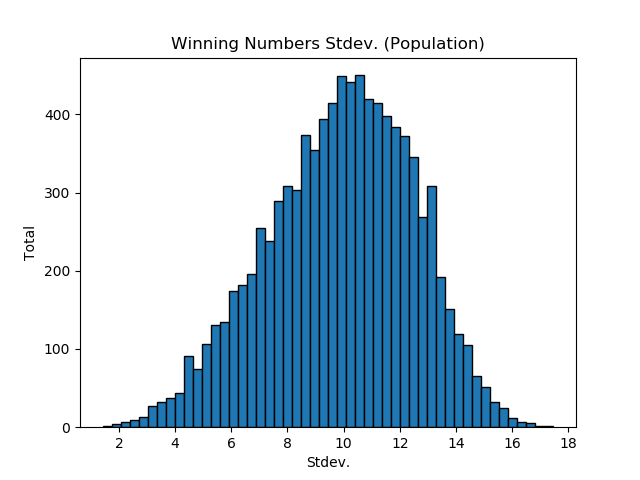
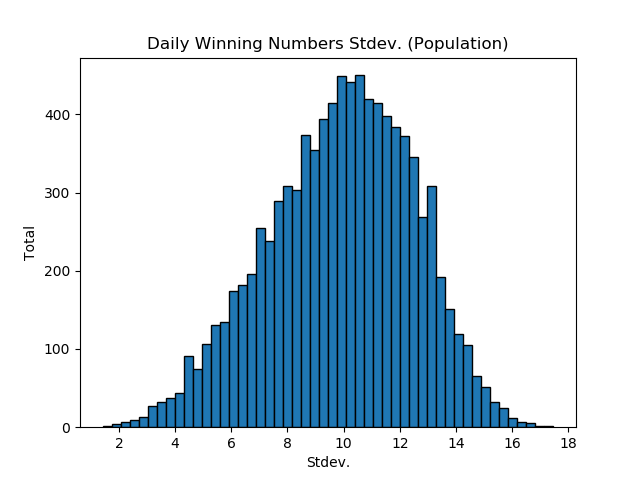
rename

Changed region(s): [[0.2188, 0.0625, 0.7812, 0.125]]

diff --git a/fantasy5stats.py b/fantasy5stats.py
@@ -112,17 +112,17 @@ def print_stats(histogram_items, histogram_dict, ascend_hist, tot_cnt, tot_sum, 
     plt.figure(0)
     histogram_lists = [*map(list, zip(*histogram_items))]
     plt.bar(histogram_lists[0], histogram_lists[1], width=0.7)
-    plt.title("Winning Numbers")
+    plt.title("All Winning Numbers")
     plt.figure(1)
     plt.hist(daily_stdevs, edgecolor='black', bins=50)
-    plt.title("Winning Numbers Stdev. (Population)")
-    plt.ylabel("Total");
-    plt.xlabel("Stdev.");
+    plt.title("Daily Winning Numbers Stdev. (Population)")
+    plt.ylabel("Total")
+    plt.xlabel("Stdev.")
     plt.figure(2)
     plt.hist(daily_means, edgecolor='black', bins=50)
-    plt.title("Winning Numbers Means")
-    plt.ylabel("Total");
-    plt.xlabel("Mean");
+    plt.title("Daily Winning Numbers Means")
+    plt.ylabel("Total")
+    plt.xlabel("Mean")
     plt.show()
 
 #### MAIN ####
